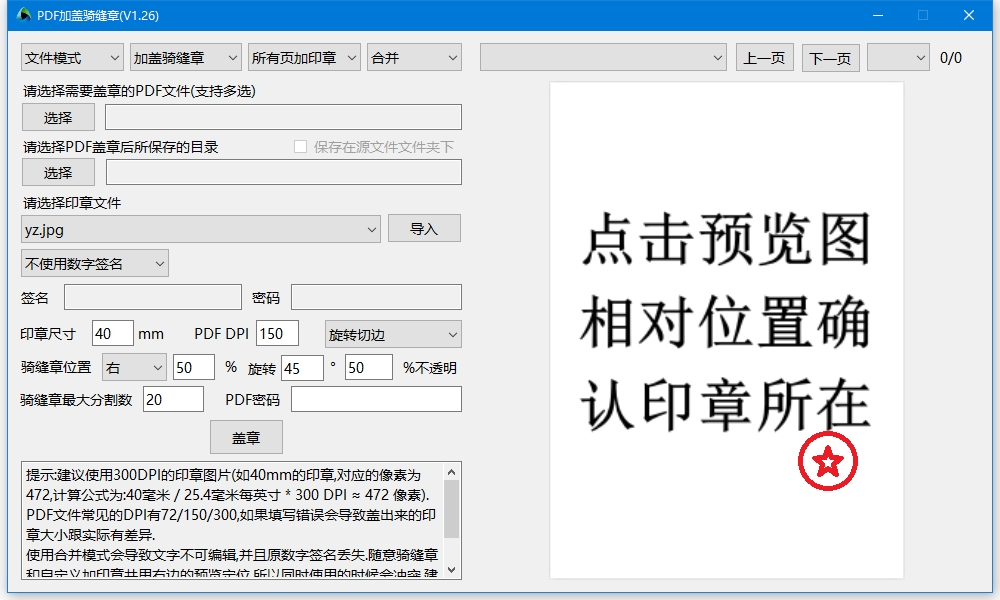
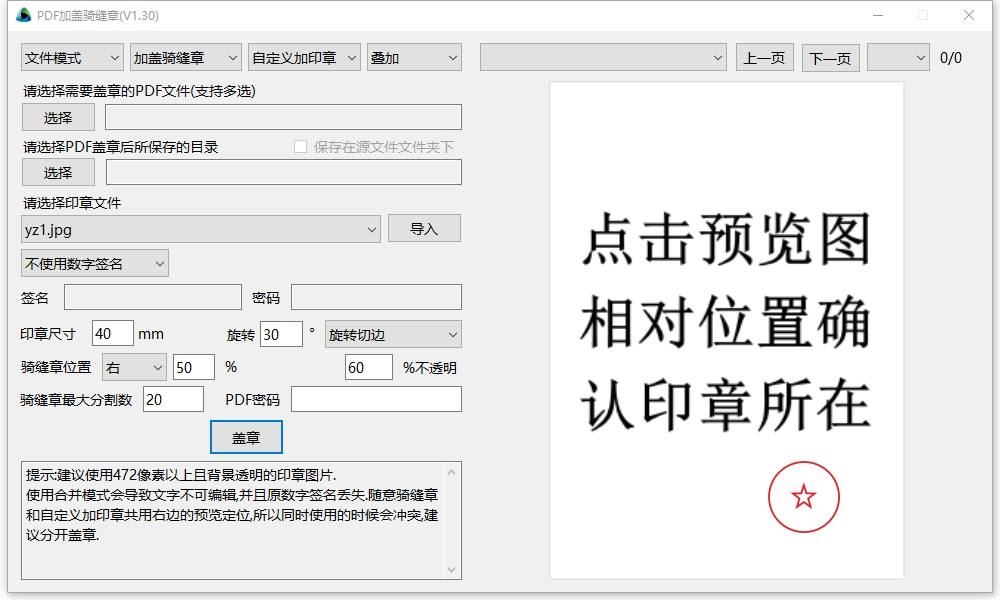
调整加印章的类型，更符合常用场景

diff --git a/PDFQFZ/Form1.cs b/PDFQFZ/Form1.cs
@@ -267,7 +267,7 @@ namespace PDFQFZ
                     }
                     else if (!int.TryParse(textCC.Text, out size) || size > 100)
                     {
-                        MessageBox.Show("印章尺寸设置错误,请输入正确的比例或尺寸。");
+                        MessageBox.Show("印章尺寸设置错误,请输入正确的尺寸。");
                     }
                     else if (!int.TryParse(textRotation.Text, out rotation))
                     {
@@ -831,25 +831,32 @@ namespace PDFQFZ
                     iTextSharp.text.Image img = null;
                     float imgW=0, imgH=0;
                     float xPos=0, yPos=0;
-                    bool all = false;
+                    int no_page = 0;//不需要盖印章的页,0表示所有页都需要盖印章
                     int signpage = 0;
 
-                    if (yzType == 1)
+                    if (yzType == 1)//首页不加印章
                     {
-                        signpage = numberOfPages;//尾页加印章
+                        if(numberOfPages > 1)
+                        {
+                            no_page = 1;
+                        }
+                        signpage = numberOfPages;
                     }
-                    else if (yzType == 2)
+                    else if (yzType == 2)//尾页不加印章
                     {
-                        signpage = 1;//首页加印章
+                        if (numberOfPages > 1)
+                        {
+                            no_page = numberOfPages;
+                        }
+                        signpage = 1;
                     }
-                    else if (yzType == 3)
+                    else if (yzType == 3)//所有页加印章
                     {
-                        signpage = numberOfPages;//所有页加印章
-                        all = true;
+                        signpage = numberOfPages;
                     }
-                    else if (yzType == 4)
+                    else if (yzType == 4)//自定义页加印章
                     {
-                        signpage = 1;//自定义页加印章
+                        signpage = 1;
                         // 遍历 DataTable 的所有行
                         foreach (DataRow row in dtPos.Rows)
                         {
@@ -863,12 +870,11 @@ namespace PDFQFZ
                                 }
                             }
                         }
-                        all = true;
                     }
 
                     for (int i = 1; i <= numberOfPages; i++)
                     {
-                        if (all || i == signpage)
+                        if (no_page == 0 || i != no_page || i == signpage)
                         {
                             waterMarkContent = pdfStamper.GetOverContent(i);//获取当前页内容
                             int rotation = pdfReader.GetPageRotation(i);//获取指定页面的旋转度
@@ -920,7 +926,7 @@ namespace PDFQFZ
                             if (i != signpage)
                             {
                                 Random random = new Random();
-                                RotationDegrees = random.Next(-10, 11);//每页的印章设置个随机的角度
+                                RotationDegrees = random.Next(-5, 6);//每页的印章设置个随机的角度
                             }
                             else
                             {
@@ -985,13 +991,6 @@ namespace PDFQFZ
 
                             ////结束
                             //waterMarkContent.EndText();
-
-
-                            //如果不是所有页都盖章,那对应页盖完后直接跳出循环
-                            if (!all&&i == signpage)
-                            {
-                                break;
-                            }
 
                         }
                     }
@@ -1624,11 +1623,11 @@ namespace PDFQFZ
                 {
                     pictureBox2.Visible = false;
                 }
-                else if (comboYz.SelectedIndex == 1 && imgStartPage == 1 && imgPageCount > 1)   //页数大于1页时，尾页加盖时，首页不显示，只有一页则会显示
+                else if (comboYz.SelectedIndex == 1 && imgStartPage == 1 && imgPageCount > 1)   //首页不加印章，首页不显示，只有一页则会显示
                 {
                     pictureBox2.Visible = false;
                 }
-                else if (comboYz.SelectedIndex == 2 && imgStartPage == imgPageCount && imgPageCount > 1) //页数大于1页时，首页加章，尾页不显示章，只有1页也会显示
+                else if (comboYz.SelectedIndex == 2 && imgStartPage == imgPageCount && imgPageCount > 1) //尾页不加印章，尾页不显示章，只有1页也会显示
                 {
                     pictureBox2.Visible = false;
                 }

diff --git a/PDFQFZ/Form1.Designer.cs b/PDFQFZ/Form1.Designer.cs
@@ -196,9 +196,9 @@
             this.comboYz.Font = new System.Drawing.Font("微软雅黑", 10.5F, System.Drawing.FontStyle.Regular, System.Drawing.GraphicsUnit.Point, ((byte)(134)));
             this.comboYz.FormattingEnabled = true;
             this.comboYz.Items.AddRange(new object[] {
-            "不加印章",
-            "尾页加印章",
-            "首页加印章",
+            "全都不加印章",
+            "首页不加印章",
+            "尾页不加印章",
             "所有页加印章",
             "自定义加印章"});
             this.comboYz.Location = new System.Drawing.Point(240, 12);
@@ -673,7 +673,7 @@
             this.KeyPreview = true;
             this.MaximizeBox = false;
             this.Name = "Form1";
-            this.Text = "PDF加盖骑缝章(V1.29)";
+            this.Text = "PDF加盖骑缝章(V1.30)";
             this.Load += new System.EventHandler(this.Form1_Load);
             ((System.ComponentModel.ISupportInitialize)(this.pictureBox2)).EndInit();
             ((System.ComponentModel.ISupportInitialize)(this.pictureBox1)).EndInit();
